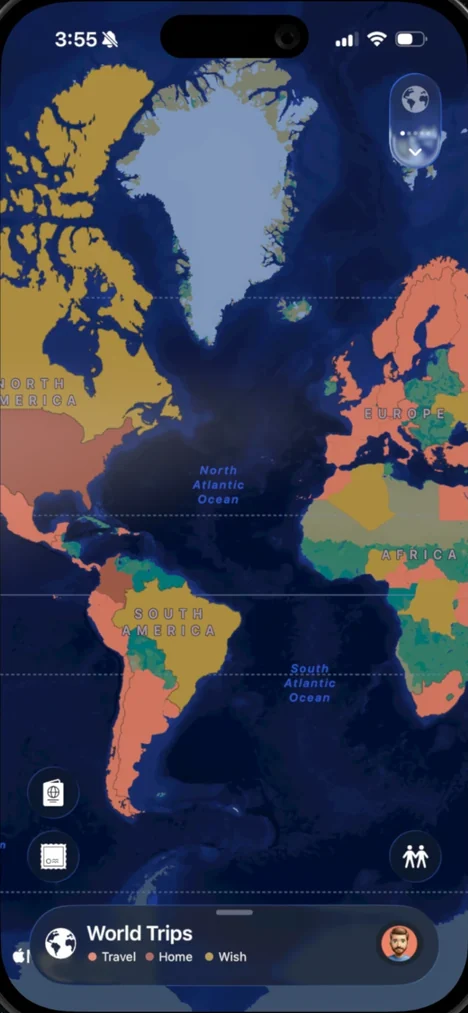
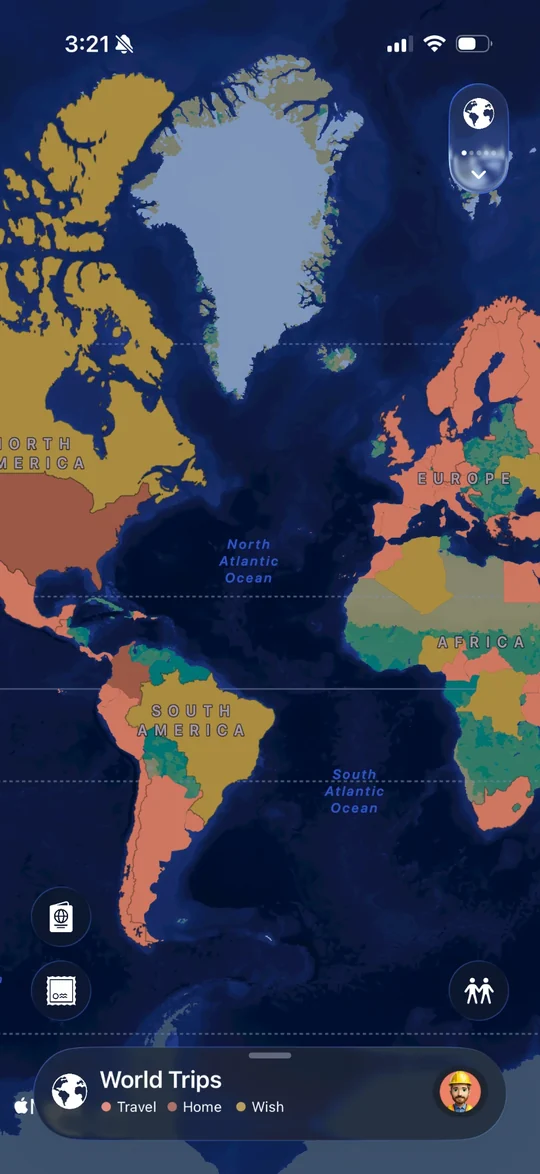
Hero centre phone: World Trips screen in a bezel, map continuing behind it
Rebuild the centre of the hero row from three screenshots of the World
Trips map. The middle one sits in a phone bezel with a Dynamic Island. The
left (Americas) and right (Europe and Asia) ones are stitched onto it to
make one continuous map, lined up so the map carries on past the bezel on
both sides and fades out into the page. The map strip leaves out the app's
status bar and buttons. Give the centre phone a little more room so the
map shows between it and its neighbours.

Claude-Session: https://claude.ai/code/session_01LFx9Di2K4FpoqrJhtTLqwv

diff --git a/docs/styles.css b/docs/styles.css
@@ -252,17 +252,50 @@ em { font-style: normal; color: var(--accent); }
 .phone--lg { width: clamp(125px, 16.5vw, 240px); }
 .hero-shelf .phone { z-index: 1; }
 
-/* Centre of the shelf: the world-map phone sits on a soft, blurred copy of
-   its starry map backdrop. The backdrop is lined up so the phone in it sits
-   right behind the real phone (the screen fills x 18-82%, y 6-92% of it) and
-   fades out in an oval, so it glows behind the neighbouring phones. */
-.hero-feature { position: relative; z-index: 0; flex: 0 0 auto; }
+/* Centre of the shelf: the World Trips screen in a phone bezel, with the
+   same map carrying on behind it to the left and right. The map image is
+   three screenshots stitched together (the screen's own 920px in the middle,
+   493px either side) and only covers the rows between the app's top and
+   bottom controls (y 350-1500 of 2000), so everything below is in units of
+   the screen width --s. */
+.hero-feature {
+  --s: clamp(125px, 16.5vw, 240px);
+  --b: calc(var(--s) * 0.045);
+  position: relative; z-index: 0; flex: 0 0 auto;
+  margin-inline: calc(var(--s) * 0.28);
+}
 .hero-feature::before {
   content: ""; position: absolute; z-index: -1; pointer-events: none;
-  left: -28.7%; top: -6.5%; width: 157.7%; height: 115.6%;
-  background: url("assets/screens/hero-feature-glow.webp") center / 100% 100% no-repeat;
-  -webkit-mask-image: radial-gradient(closest-side, #000 50%, transparent);
-  mask-image: radial-gradient(closest-side, #000 50%, transparent);
+  left: calc(var(--b) - var(--s) * 493 / 920);
+  top: calc(var(--b) + var(--s) * 350 / 920);
+  width: calc(var(--s) * 1906 / 920);
+  height: calc(var(--s) * 1150 / 920);
+  background: url("assets/screens/hero-feature-map.webp") center / 100% 100% no-repeat;
+  filter: brightness(.82);
+  -webkit-mask-image: linear-gradient(90deg, transparent, #000 22%, #000 78%, transparent), linear-gradient(180deg, transparent, #000 20%, #000 80%, transparent);
+  -webkit-mask-composite: source-in;
+  mask-image: linear-gradient(90deg, transparent, #000 22%, #000 78%, transparent), linear-gradient(180deg, transparent, #000 20%, #000 80%, transparent);
+  mask-composite: intersect;
+}
+.hero-feature-phone {
+  position: relative; padding: var(--b);
+  border-radius: calc(var(--s) * 0.19);
+  background: #050506;
+  box-shadow:
+    inset 0 0 0 calc(var(--s) * 0.008) #4a4a52,
+    inset 0 0 0 calc(var(--s) * 0.016) #141417,
+    0 0 0 1px rgba(0, 0, 0, .6),
+    0 30px 70px -20px rgba(0, 0, 0, .9);
+}
+.hero-feature-phone img {
+  width: var(--s); aspect-ratio: 920 / 2000;
+  border-radius: calc(var(--s) * 0.15);
+}
+/* Dynamic Island */
+.hero-feature-phone::after {
+  content: ""; position: absolute; left: 50%; top: calc(var(--b) + var(--s) * 0.035);
+  width: calc(var(--s) * 0.3); height: calc(var(--s) * 0.085);
+  transform: translateX(-50%); border-radius: 999px; background: #000;
 }
 
 /* Shared phone chrome */

diff --git a/docs/index.html b/docs/index.html
@@ -93,7 +93,7 @@
     <div class="phone phone--sm"><img width="468" height="1013" src="assets/screens/hero-1.webp" alt=""></div>
     <div class="phone phone--md"><img width="468" height="1013" src="assets/screens/hero-2.webp" alt=""></div>
     <div class="hero-feature">
-      <div class="phone phone--lg"><img width="468" height="1013" src="assets/screens/hero-feature.webp" alt=""></div>
+      <div class="hero-feature-phone"><img width="540" height="1174" src="assets/screens/hero-feature.webp" alt=""></div>
     </div>
     <div class="phone phone--md"><img loading="lazy" width="468" height="1013" src="assets/screens/hero-4.webp" alt=""></div>
     <div class="phone phone--sm"><img loading="lazy" width="468" height="1013" src="assets/screens/hero-5.webp" alt=""></div>

diff --git a/README.md b/README.md
@@ -64,7 +64,7 @@ any background, and renders the 1200×630 social image.
 
 | Slot | Source |
 |---|---|
-| Hero phones, left → right | `IMG_0490`, `Timeline.jpeg`, the world-map screen (`screens/hero-feature.webp`) over a blurred copy of its starry backdrop (`screens/hero-feature-glow.webp`), both added by hand, not by the builder, `IMG_0492`, `IMG_0494` |
+| Hero phones, left → right | `IMG_0490`, `Timeline.jpeg`, the World Trips screen in a phone bezel (`screens/hero-feature.webp`) with the map carrying on behind it (`screens/hero-feature-map.webp`, three screenshots stitched side by side), both added by hand, not by the builder, `IMG_0492`, `IMG_0494` |
 | 3D map — "relive your trips" | `IMG_1044` (Eiffel Tower) in `handphone.png` |
 | 3D map — "right where it happened" | `IMG_1043` (Mona Lisa, the Louvre) |
 | 3D map — "global adventures" | `IMG_1047` (San Francisco) |
